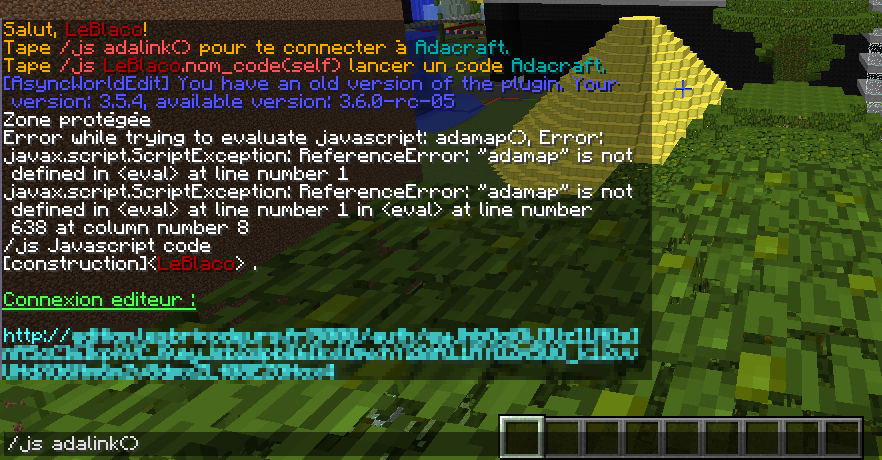
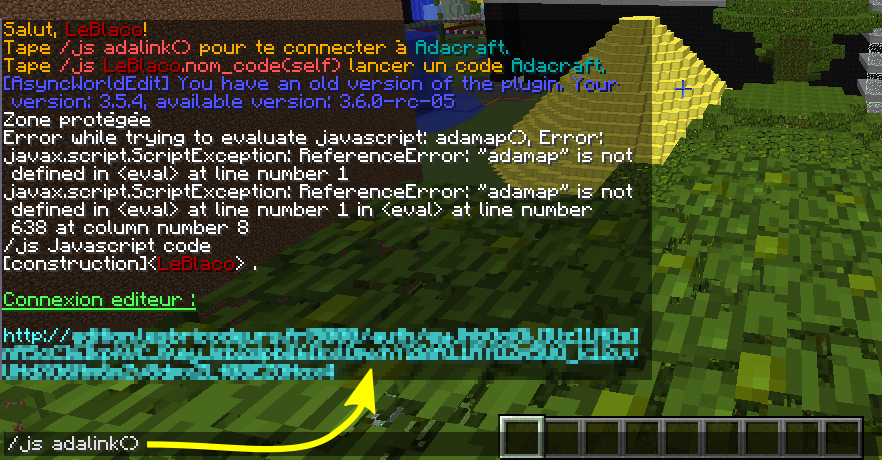
MaJ article Adacraft

Changed region(s): [[0.1531, 0.913, 0.398, 1.0], [0.3673, 0.7913, 0.4286, 0.913]]

diff --git a/AteliersdAda/adacraft/index.md b/AteliersdAda/adacraft/index.md
@@ -10,6 +10,36 @@ image:
   creditlink: 
 ---
 
+<style type="text/css">
+
+p{
+  text-align: justify;
+}
+
+.c_img{
+  display: block;
+  margin-left: auto;
+  margin-right: auto;
+}
+
+.r_img{
+  float: right;
+  margin-left: 1em;
+}
+
+.clearfix::after{
+  content: "";
+  clear: both;
+  display: table;
+
+iframe{
+  width: 100%;
+}
+
+}
+
+</style>
+
 Cette page est dédiée à notre serveur Minecraft : **Adacraft**. Nous allons vous détailler comment vous y connecter et comment utiliser notre interface de programmation visuelle !
 
 ## Minecraft
@@ -18,35 +48,46 @@ Minecraft est un jeu de construction qui offre la possibilité aux joueur de se 
 
 ## Connexion au serveur minecraft
 
-Une fois le jeu Minecraft démarré il faut aller dans le menu `multijoueur` et ajouter un nouveau serveur en spécifiant les informations suivantes :
+<div class="clearfix">
+  
+  <img class="r_img" src="{{ site.url }}/images/adacraft_tuto/server_connect.png">
+  <p>Une fois le jeu Minecraft démarré il faut aller dans le menu <code>Multijoueur</code>, cliquer sur <code>Nouveau serveur</code> et ajouter le serveur Adacraft en spécifiant comme adresse du serveur <code>ada.lesbricodeurs.fr</code>. Le serveur devrait ensuite apparaître dans la liste des serveurs, cliquez dessus pour vous y connecter !</p>
 
-- Nom du serveur : `Adacraft`
-- Adresse du serveur : `play.lesbricodeurs.fr`
-
-Le serveur devrait ensuite apparaître dans la liste des serveurs, et vous pourrez vous y connecter.
+</div>
 
 ## L'éditeur de code visuel
 
-Pour éditer du code et l'exécuter sur le serveur il vous d'abord créer une session d'édition. Pour cela il faut taper la commande suivante dans le *chat* du jeu (activable avec la touche `T` généralement) :
+Pour éditer du code et l'exécuter sur le serveur il vous d'abord créer une session d'édition. Pour cela il faut taper la commande `/js adalink()` dans le *chat* du jeu (activable avec la touche `T` généralement) puis appuyer sur la touche `Entrée`.
 
-`/js adalink()`
+<img class="c_img" src="{{site.url}}/images/adacraft_tuto/editor_connect.png">
 
-La commande vous renverra un lien, il faut ensuite cliquer dessus ce qui vous renverra sur votre navigateur internet (il faut utiliser Google Chrome de préférence). Vous devriez alors être connecté sur notre interface en ligne, avec votre nom de joueur ainsi que les codes que vous avez déjà écrits.
+La commande vous renverra un lien, il faut ensuite cliquer dessus ce qui ouvrira votre navigateur internet (utiliser Google Chrome de préférence). Vous devriez alors être connecté sur notre interface en ligne, avec votre nom de joueur ainsi que les codes que vous avez déjà écrits.
 
 Pour écrire un nouveau code, il faut entre un nom de programme dans le champ de texte disponible sous votre nom de joueur puis appuyer sur la touche `Entrée`. Vous accédez à l'éditeur que vous pouvez passer en mode block en appuyant sur le bouton `Activer/Désactiver Blockly`. Une fois cette opération effectuée vous pourrez ajouter des blocs pour programmer.
 
-Le premier bloc à ajouter est le bloc `Programme` disponible dans la catégories de blocs « Drone ». Ajoutez ce bloc et entre un nom dans la case blanche du bloc, par exemple « programme1 ». Ajoutez d'autres blocs à l'intérieur de ce bloc afin de programmer une construction, puis sauvegardez avec le bouton `Sauvegarder`.
+<div class="clearfix">
+  
+  <img class="r_img" src="{{site.url}}/images/adacraft_tuto/program_create.png" style="border: 1px solid black;">
+  <p>Pour écrire un nouveau code, il faut entre un nom de programme dans le champ de texte disponible sous votre nom de joueur puis appuyer sur la touche <code>Entrée</code>. Vous accédez à l'éditeur que vous pouvez passer en mode block en appuyant sur le bouton <code>Activer/Désactiver Blockly</code>. Une fois cette opération effectuée vous pourrez ajouter des blocs pour programmer.</p>
+
+</div>
+
+Le premier bloc à ajouter est le bloc `Programme` disponible dans la catégorie <span style="background-color: #b16358; color: white; padding: 2px; border-radius: 3px;">Drone</span>. Nommez votre programme en écrivant dans le champ du bloc prévu pour cela, par exemple inscrivez « maison » si votre programme servira à construire une maison. Tout votre programme se situera à l'intérieur de ce bloc, ajoutez maintenant des blocs à votre programme puis enregistrez avec le bouton <code>Sauvegarder</code>.
+
+<img class="c_img" src="{{site.url}}/images/adacraft_tuto/program_edit.png" style="border: 1px solid black;">
 
 ## Lancer son code dans le jeu
 
-Une fois le code écrit et sauvegardé, il faudra retourner sur Minecraft pour l'exécuter. Ciblez une case puis ouvrez le *chat* (touche `T` généralement) et tapez la commande suivante 
+Une fois le code écrit et sauvegardé, il faut retourner sur Minecraft pour l'exécuter. Ciblez une case puis ouvrez le *chat* (touche `T` généralement) et tapez la commande <code>/js nom_programme.nom_joueur(self)</code> en remplacant « nom_programme » et « nom_joueur » par vos valeurs. Appuyez sur la touche <code>Entrée</code> et regardez votre code s'exécuter !
 
-`/js programme1.nom_joueur(self)`.
-
-Il faudra remplacer « nom_joueur » par le nom de votre compte Minecraft (visible dans l'éditeur de code). Le code d'exécutera !
+<img class="c_img" src="{{site.url}}/images/adacraft_tuto/program_run.png">
 
 ## La carte !
 
 Une carte globale du serveur est mise à jour régulièrement, elle est disponible ici :
+
+<iframe src="http://188.165.206.136:8123/?worldname=construction&mapname=surface&zoom=3&x=1388&y=64&z=846" width="100%" height="400px"></iframe> 
+
+<iframe src="http://map.lesbricodeurs.fr/?worldname=construction&mapname=surface&zoom=3&x=1388&y=64&z=846" width="100%" height="400px"></iframe>
 
 <a class="btn" href="http://map.lesbricodeurs.fr/?worldname=construction&mapname=surface&zoom=2&x=1491&y=64&z=948">La Carte</a>
